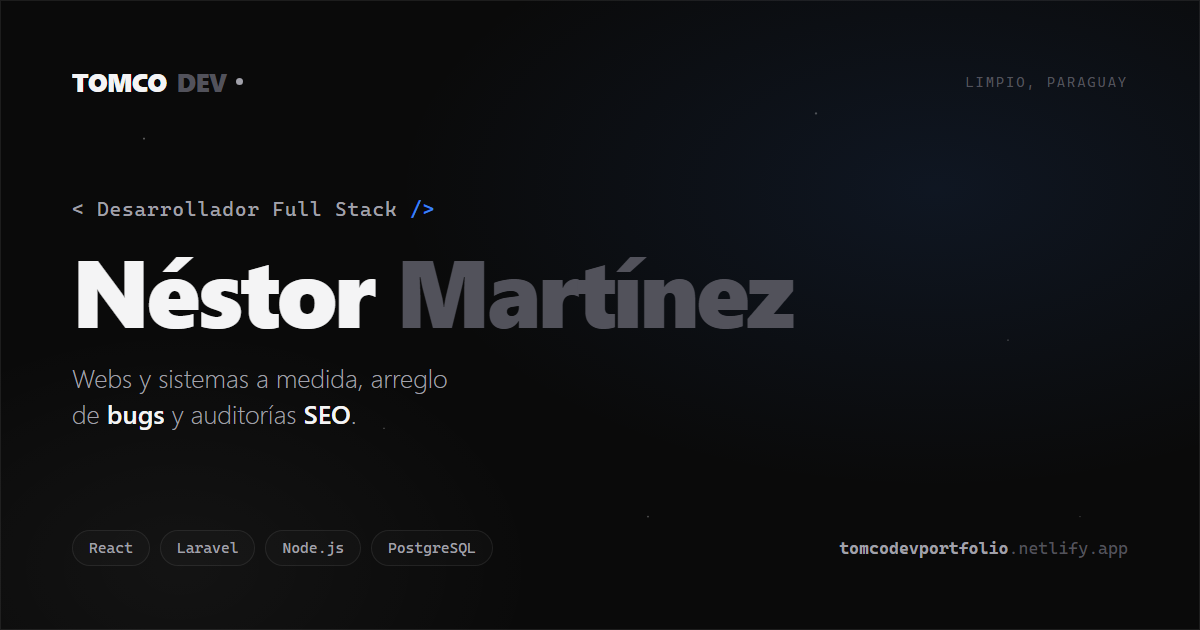
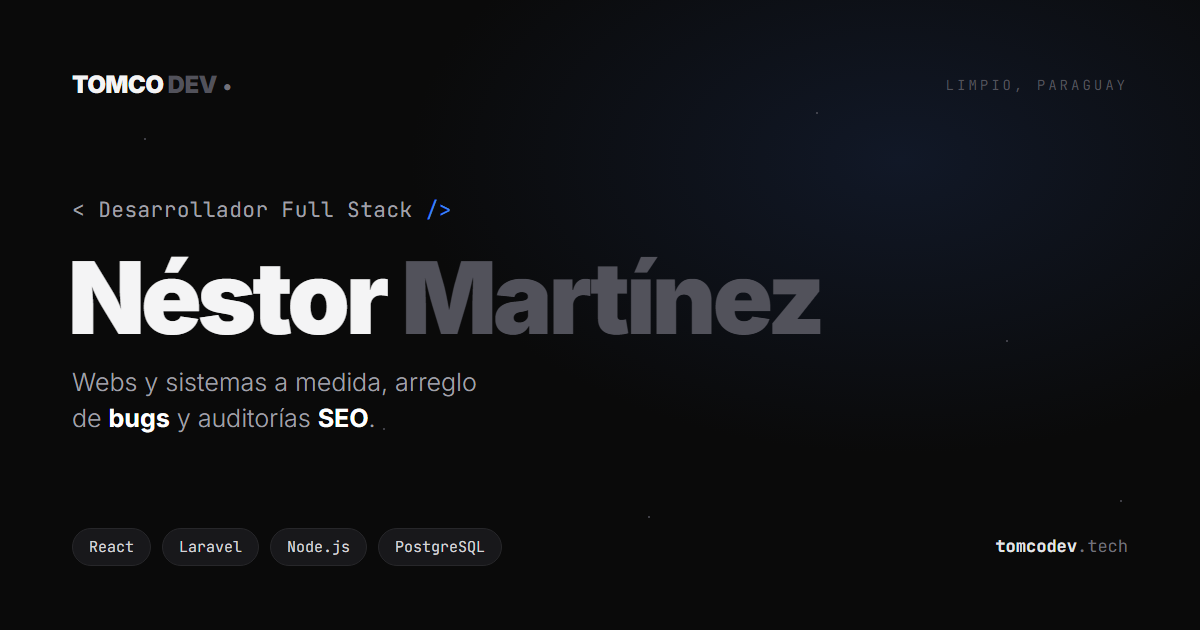
fix: usa el dominio tomcodev.tech en las meta tags y la imagen Open Graph

diff --git a/index.html b/index.html
@@ -12,16 +12,16 @@
     <meta name="author" content="Néstor Martínez" />
     <meta name="keywords"
       content="desarrollador full stack, programador, react, laravel, node.js, php, paraguay, arreglar bugs, auditoría seo, páginas web, Tomcodev" />
-    <link rel="canonical" href="https://tomcodevportfolio.netlify.app/" />
+    <link rel="canonical" href="https://tomcodev.tech/" />
     <meta name="theme-color" content="#0a0a0a" />
 
     <!-- Open Graph (WhatsApp, LinkedIn, Facebook) -->
     <meta property="og:type" content="website" />
-    <meta property="og:url" content="https://tomcodevportfolio.netlify.app/" />
+    <meta property="og:url" content="https://tomcodev.tech/" />
     <meta property="og:title" content="Néstor Martínez | Desarrollador Full Stack" />
     <meta property="og:description"
       content="Creo webs y sistemas a medida, arreglo bugs y hago auditorías SEO. React · Laravel · Node.js · PostgreSQL." />
-    <meta property="og:image" content="https://tomcodevportfolio.netlify.app/og-image.png" />
+    <meta property="og:image" content="https://tomcodev.tech/og-image.png?v=2" />
     <meta property="og:image:width" content="1200" />
     <meta property="og:image:height" content="630" />
     <meta property="og:locale" content="es_ES" />
@@ -32,7 +32,7 @@
     <meta name="twitter:title" content="Néstor Martínez | Desarrollador Full Stack" />
     <meta name="twitter:description"
       content="Creo webs y sistemas a medida, arreglo bugs y hago auditorías SEO. React · Laravel · Node.js." />
-    <meta name="twitter:image" content="https://tomcodevportfolio.netlify.app/og-image.png" />
+    <meta name="twitter:image" content="https://tomcodev.tech/og-image.png?v=2" />
   </head>
   <body>
     <div id="root"></div>
